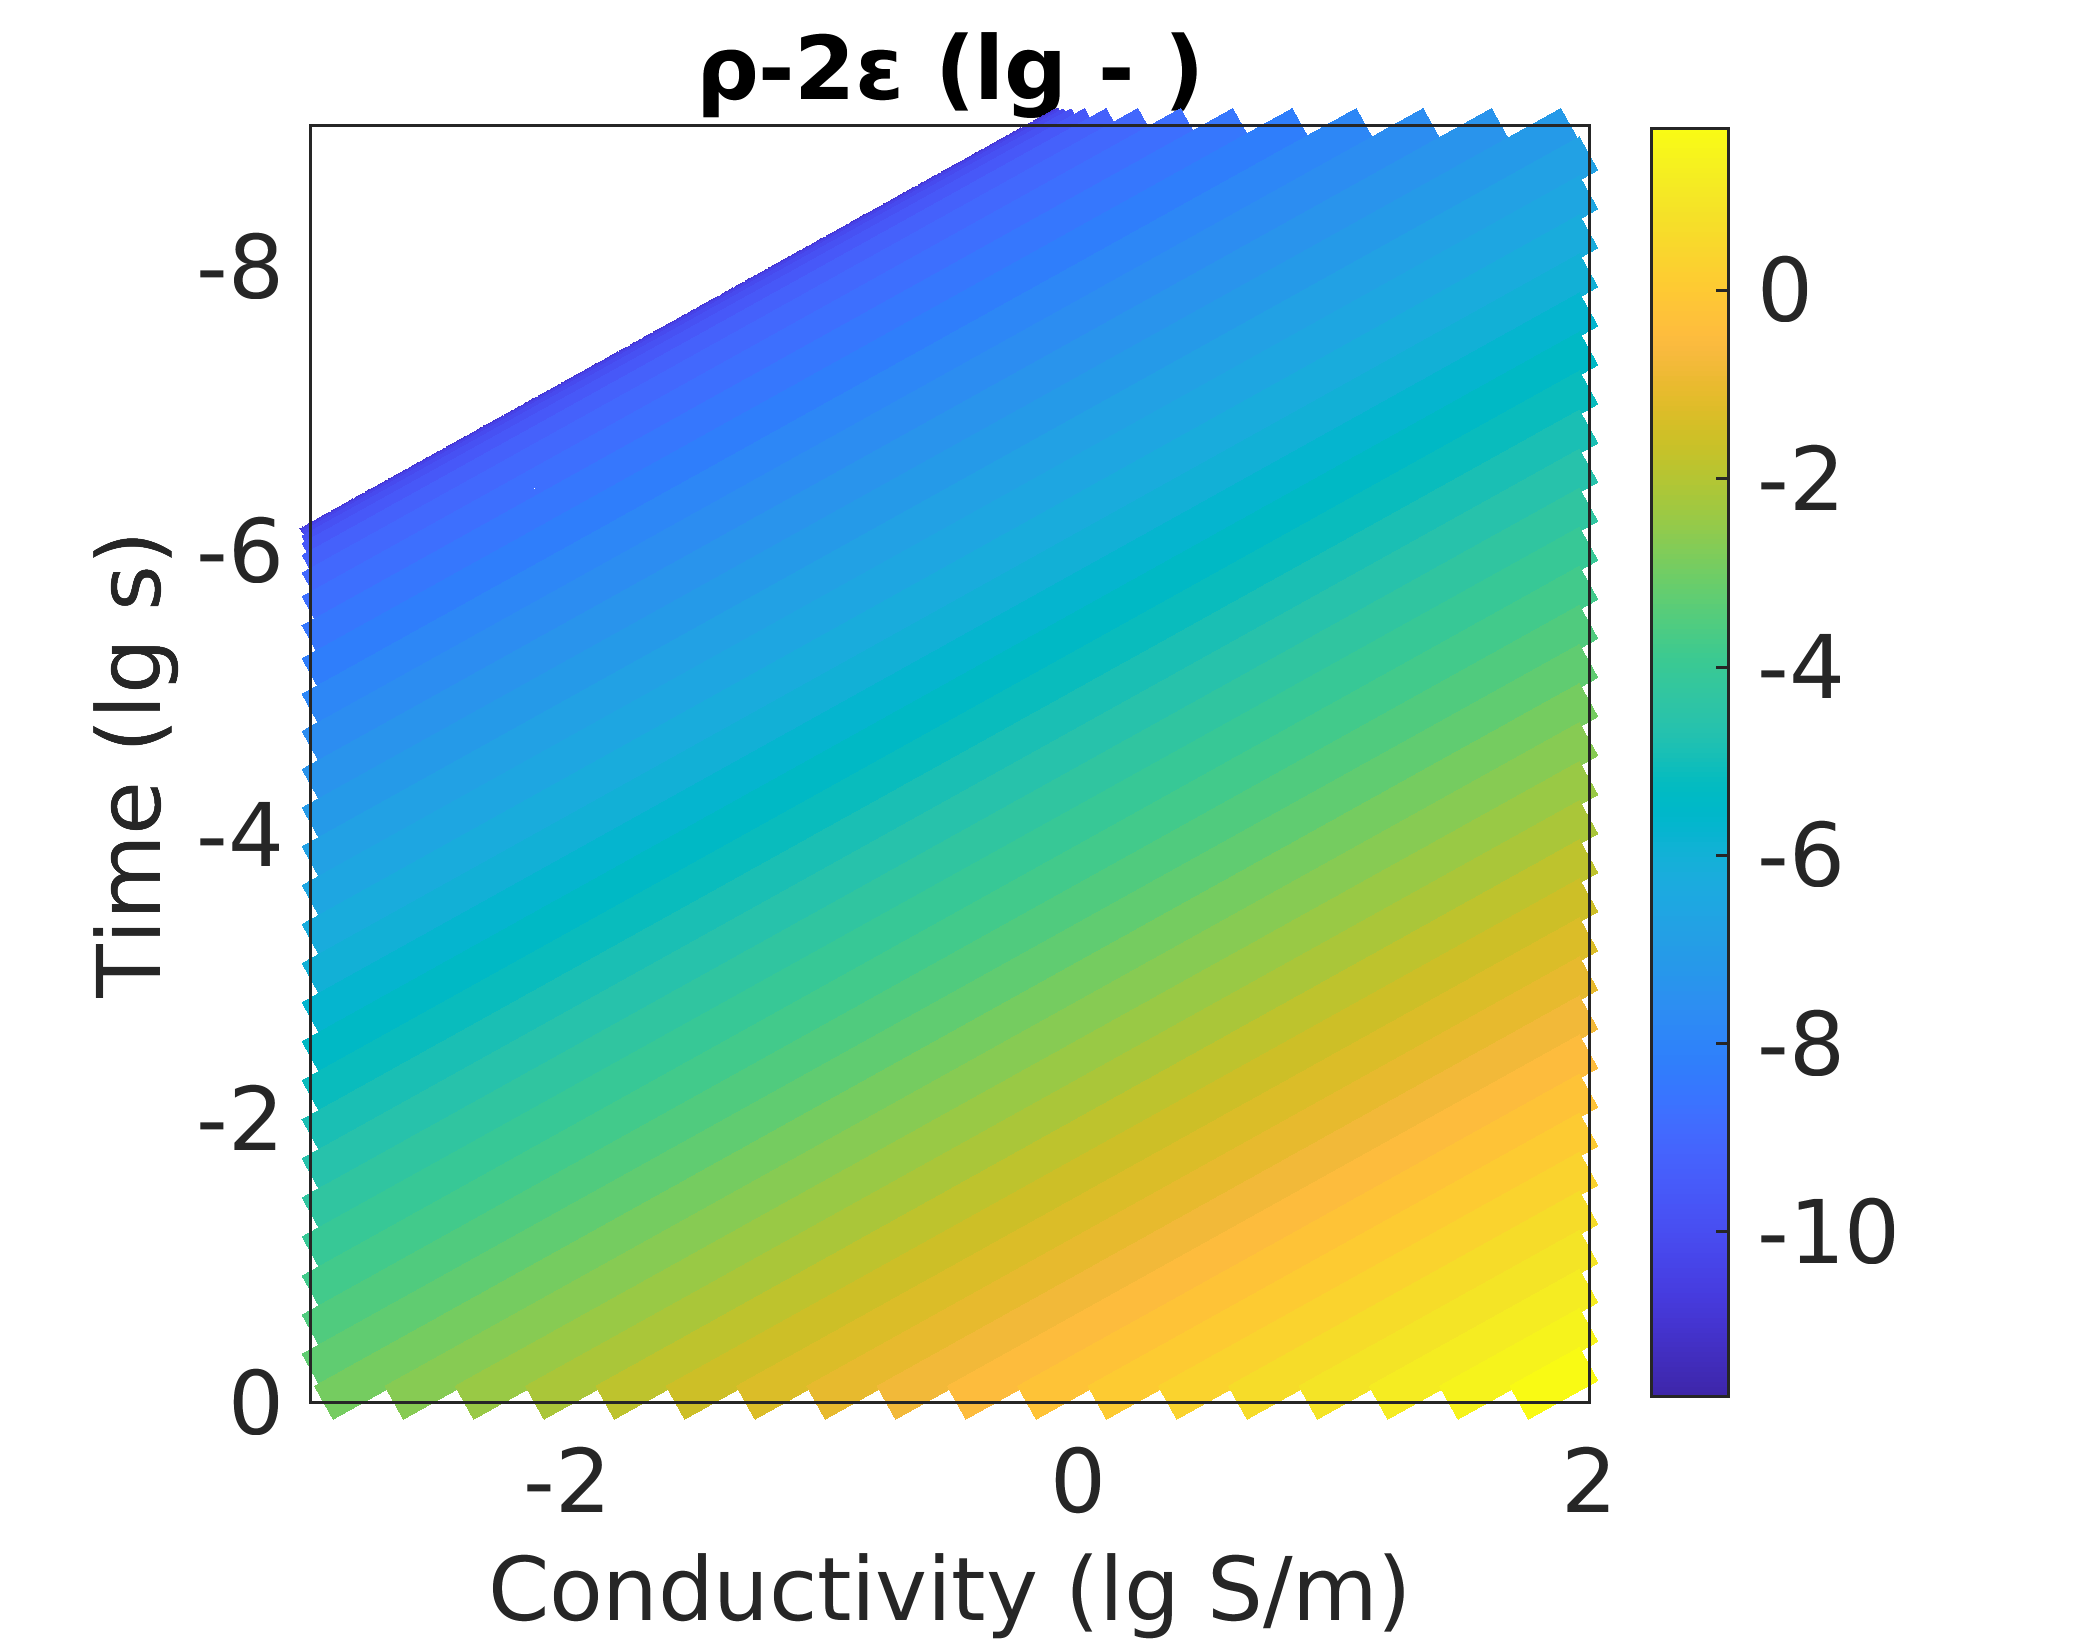
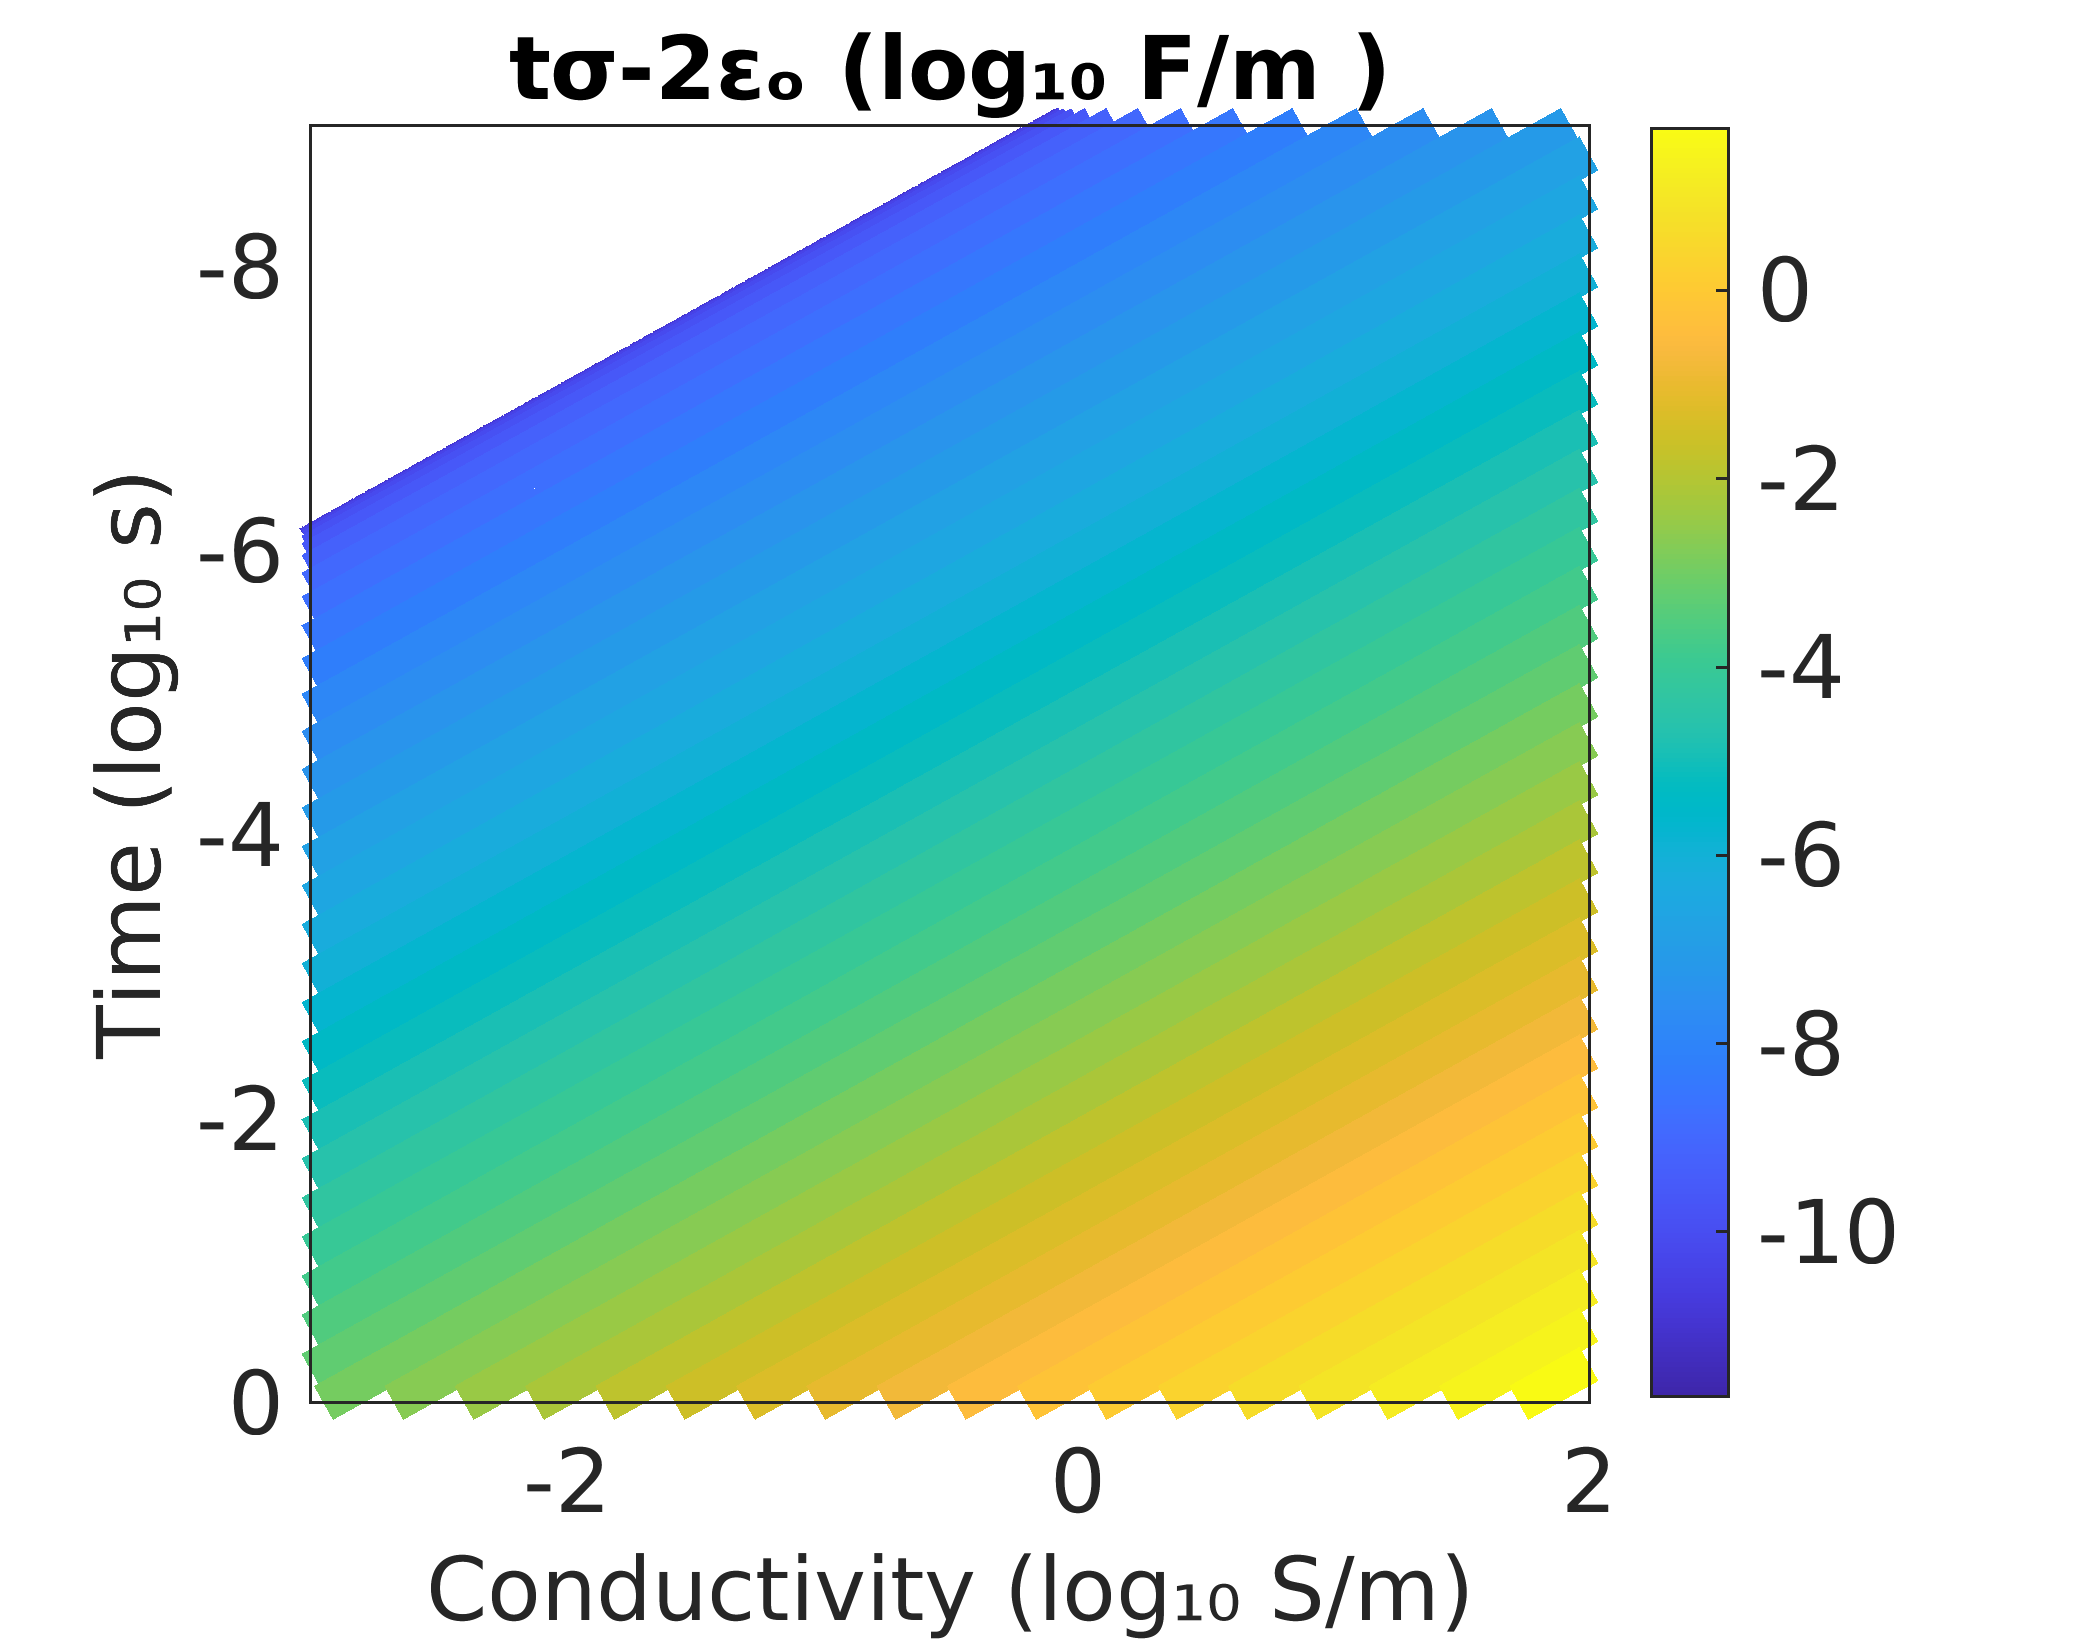
🟢

Changed region(s): [[0.1848, 0.9324, 0.7084, 1.0], [0.2464, 0.0, 0.6776, 0.0932], [0.0308, 0.2797, 0.0924, 0.6527]]

diff --git a/projects/pdes/em-wavediffu/emwa2di.m b/projects/pdes/em-wavediffu/emwa2di.m
@@ -43,7 +43,7 @@ sig = logspace(-3,2,1e3); % S/m
 % 
 %                     ρ = v² ⋅ (t² - 4ε²/σ²)
 % 
-% ρ is either large, small, or negative.
+% ρ can be large, small, or negative.
 % since 2ɛ is about 10⁻¹¹,
 %                          tσ - 10⁻¹¹ >> 0  ⥰ diffusion
 %                          tσ - 10⁻¹¹  > 0  ⥰ wavey diffusion
@@ -64,9 +64,9 @@ axis square;
 axis ij;
 % colormap(rainbow2_cb(1));
 colorbar;
-ylabel('Time (lg s)')
-xlabel('Conductivity (lg S/m)')
-title('r^* (lg m)')
+ylabel('Time (log₁₀ s)')
+xlabel('Conductivity (log₁₀ S/m)')
+title('r^* (log₁₀ m)')
 simple_figure()
 
 figure;
@@ -75,9 +75,9 @@ axis square;
 axis ij;
 % colormap(rainbow2_cb(1));
 colorbar;
-ylabel('Time (lg s)')
-xlabel('Conductivity (lg S/m)')
-title('ρ-2ɛ (lg - )')
+ylabel('Time (log₁₀ s)')
+xlabel('Conductivity (log₁₀ S/m)')
+title('tσ-2ɛₒ (log₁₀ F/m )')
 simple_figure()
 % ------------------------------------------------------------------------------
 % is the media a poor conductor or a good conductor?
@@ -109,8 +109,8 @@ axis square;
 axis ij;
 % colormap(rainbow2_cb(1));
 colorbar;
-ylabel('Frequency (lg Hz)')
-xlabel('Conductivity (lg S/m)')
-title('ɛ^* (lg - )')
+ylabel('Frequency (log₁₀ Hz)')
+xlabel('Conductivity (log₁₀ S/m)')
+title('ɛ^* (log₁₀ - )')
 simple_figure()
 % ------------------------------------------------------------------------------

diff --git a/projects/opti/em-calibration/emsrc.m b/projects/opti/em-calibration/emsrc.m
@@ -92,17 +92,17 @@ azul    = [0.3010 0.7450 0.9330];
 purpura = [0.4940 0.1840 0.5560];
 naranja = [0.8500 0.3250 0.0980];
 % ------------------------------------------------------------------------------
-figure;
+figure('units','normalized','outerposition',[0 0 0.5 0.5]);
 subplot(1,2,1);
 hold on;
 plot(t*1e6,src,'linewidth',5,'color',verde);
-plot(t*1e6,src,'.','markersize',5,'color',azul);
+% plot(t*1e6,src,'.','markersize',5,'color',azul);
 
 plot(t*1e6,srcd,'linewidth',5,'color',azul);
-plot(t*1e6,srcd,'.','markersize',5,'color',purpura);
+% plot(t*1e6,srcd,'.','markersize',5,'color',purpura);
 
 plot(t*1e6,srci,'linewidth',5,'color',purpura);
-plot(t*1e6,srci,'.','markersize',5,'color',naranja);
+% plot(t*1e6,srci,'.','markersize',5,'color',naranja);
 hold off;
 axis tight;
 axis square;

diff --git a/projects/pdes/em-wavediffu/readme.md b/projects/pdes/em-wavediffu/readme.md
@@ -1,0 +1,54 @@
+🔥🌊 
+
+## is EM wave propagation asymptotically equal to diffusion?
+
+if this happens then yes,
+
+                           √(t² - R²/v²) >> 2ε/σ
+                       ⟹             R² << v² ⋅ (t² - 4ε²/σ²)
+
+t is time that has passed and, R is distance from source to receiver.
+
+"Diffusion of electromagnetic fields into a two-dimensional earth: a finite difference approach" Oristaglio and Hohmann, 1984.
+
+💡🟢 this 👇 approach is easier to check as criteria,
+
+                            R² << v² ⋅ (t² - 4ε²/σ²)
+                        let r* = √(v² ⋅ (t² - 4ε²/σ²))
+
+* if r*  >> 0  ⥰ diffusion
+* if r*   > 0  ⥰ wavey diffusion
+* if r*²  < 0  ⥰ wave 💯
+
+[![](../pics/wavevsmedia-rst.png)](./)
+
+🚨🚨 large & small compared to closest offset rx.
+
+💡🟢 another 👇 easier way to see it 👌 (valid in free-space),
+
+                 let ρ = v² ⋅ (t² - 4ε²/σ²)
+
+ρ can be large, small, or negative. Since 2ɛₒ is about 10⁻¹¹,
+
+* tσ - 10⁻¹¹ >> 0  ⥰ diffusion
+* tσ - 10⁻¹¹  > 0  ⥰ wavey diffusion
+* tσ - 10⁻¹¹  < 0  ⥰ wave 💯
+
+[![](../pics/wavevsmedia-rho.png)](./)
+
+## is the media a poor conductor or a good conductor?
+
+σ << ωε poor conductor
+σ >> ωε good conductor
+
+    or,
+
+ε >> σ/ω poor conductor
+ε << σ/ω good conductor
+
+💡🟢 let ε* = σ/ω/ɛₒ.
+
+* if ɛᵣ >> ε* ⥰ poor conducctor
+* if ɛᵣ << ε* ⥰ good conducctor
+
+[![](../pics/conductmedia.png)](./)
